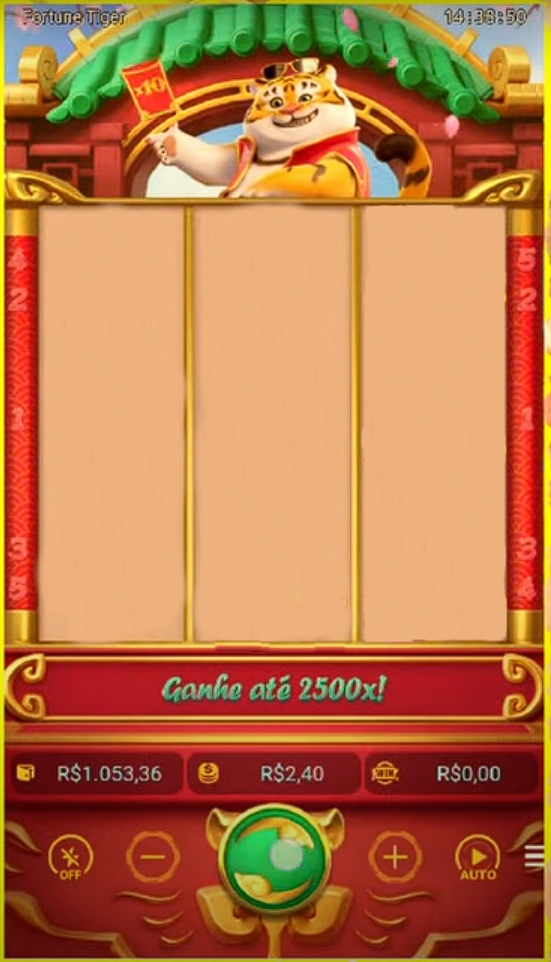
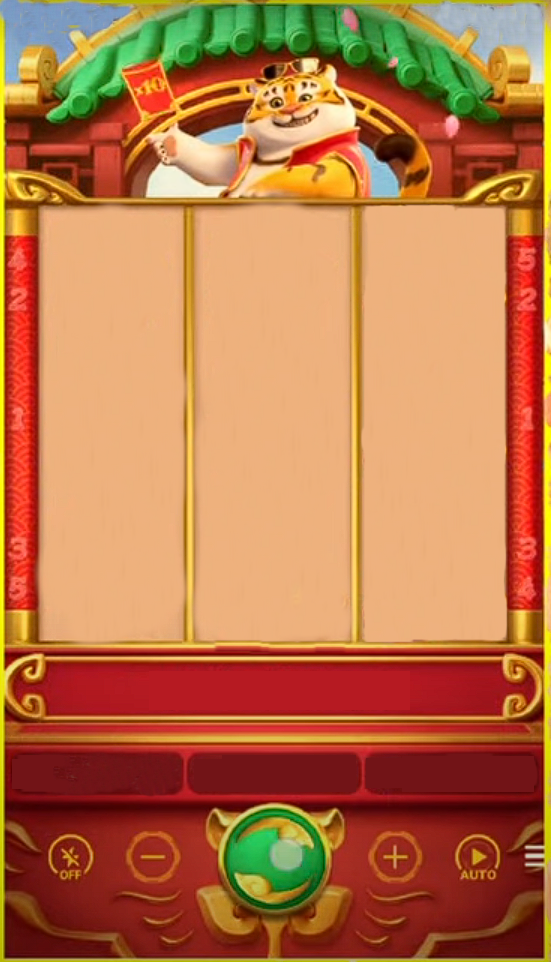
inteface pronta, tenho que fazer o sistema de vitória e os inputs para colocaro o 'dinheiro'

diff --git a/main.py b/main.py
@@ -6,36 +6,16 @@ def sorteio():
     lista = ["amuleto.PNG", "carta.PNG", "laranja.PNG", "wild.PNG", "fogo_de_artificio.PNG",
              "saco_de_ouro.PNG", "zovo_de_ouro.PNG"]
     a = random.choice(lista)
-    b = random.choice(lista)
-    c = random.choice(lista)
-    d = random.choice(lista)
-    e = random.choice(lista)
-    f = random.choice(lista)
-    g = random.choice(lista)
-    h = random.choice(lista)
-    i = random.choice(lista)
 
-    return [a, b, c, d, e, f, g, h, i]
-
-
-sorte = sorteio()
+    return a
 
 
 def main(page: ft.Page):
     def pagina():
-
         def item(a):
-            global sorte
-            sorte = sorteio()
-            if a == 1 or 2 or 3:
-                return ft.Container(image_src=f"images/{sorte[a]}", padding=50, margin=2)
-            else:
-                return ft.Container(image_src=f"images/{sorte[a]}", padding=50, margin=2, )
+            return ft.Container(image_src=f"images/{sorteio()}", padding=50, margin=2)
 
-        global sorte
-        sorte = sorteio()
         page.clean()
-        retry = ft.IconButton(icon=ft.icons.ASSIGNMENT_RETURN, on_click=button_clicked)
         item1 = item(0)
         item2 = item(1)
         item3 = item(2)
@@ -51,32 +31,71 @@ def main(page: ft.Page):
             # alignment=ft.MainAxisAlignment.CENTER),
             # literal jogo
             ft.Container(
-                alignment=ft.alignment.center,
-                padding=170,
+                bgcolor=ft.colors.WHITE,
+                width=460,
+                height=800,
                 image_src="images/fundo.PNG",
-                content=ft.Column(
+                content=
+                ft.Column(
                     alignment=ft.MainAxisAlignment.CENTER,
+                    horizontal_alignment=ft.CrossAxisAlignment.CENTER,
                     controls=[
-                        ft.Row(controls=[item1, item2, item3],
-                               vertical_alignment=ft.CrossAxisAlignment.CENTER,
-                               alignment=ft.MainAxisAlignment.CENTER),
-                        ft.Row(controls=[item4, item5, item6],
-                               vertical_alignment=ft.CrossAxisAlignment.CENTER,
-                               alignment=ft.MainAxisAlignment.CENTER),
-                        ft.Row(controls=[item7, item8, item9],
-                               vertical_alignment=ft.CrossAxisAlignment.CENTER,
-                               alignment=ft.MainAxisAlignment.CENTER),
-                        # botão
-                        ft.Row(controls=[retry],
-                               vertical_alignment=ft.CrossAxisAlignment.CENTER,
-                               alignment=ft.MainAxisAlignment.CENTER),
+                        ft.Container(
+                            margin=ft.margin.only(bottom=80, top=175),
+                            content=
+                            ft.Column(controls=[
+                                ft.Row(controls=[item1, item2, item3],
+                                       vertical_alignment=ft.CrossAxisAlignment.CENTER,
+                                       alignment=ft.MainAxisAlignment.CENTER,
+                                       spacing=25,
+                                       ),
+                                ft.Row(controls=[item4, item5, item6],
+                                       vertical_alignment=ft.CrossAxisAlignment.CENTER,
+                                       alignment=ft.MainAxisAlignment.CENTER,
+                                       spacing=25,
+                                       ),
+                                ft.Row(controls=[item7, item8, item9],
+                                       vertical_alignment=ft.CrossAxisAlignment.CENTER,
+                                       alignment=ft.MainAxisAlignment.CENTER,
+                                       spacing=25,
+                                       ),
+                            ])
+                        ),
+                        # isso é pra dá a Mer** do espassamento entr a bos** do botão e a roleta
+                        ft.Row(
+                            vertical_alignment=ft.CrossAxisAlignment.CENTER,
+                            alignment=ft.MainAxisAlignment.CENTER,
+                            controls=[
+                                    ft.TextField(color=ft.colors.YELLOW,
+                                                 scale=0.45,
+                                                 text_size=30,
+                                                 border_color="#721417")
 
-                    ])
+                            ]
+                        ),
+                        # botão
+                        ft.Row(
+                            vertical_alignment=ft.CrossAxisAlignment.CENTER,
+                            alignment=ft.MainAxisAlignment.CENTER,
+                            controls=[
+                                ft.Container(
+                                    bgcolor=ft.colors.PURPLE,
+                                    padding=40,
+                                    content=ft.Text("  "),
+                                    border_radius=90,
+                                    margin=ft.margin.only(bottom=50),
+                                    on_click=lambda e: button_clicked(),
+                                )
+                            ]
+                        )
+
+                    ]
+                ),
             )
 
         )
 
-    def button_clicked(e):
+    def button_clicked():
         pagina()
 
     page.vertical_alignment = ft.MainAxisAlignment.CENTER
